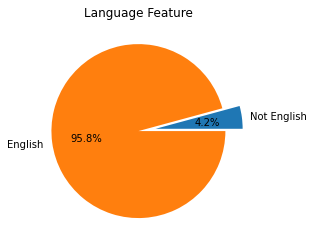
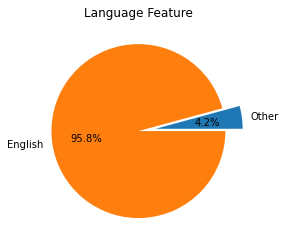
added url feature plots and improved language plots

Changed region(s): [[0.0, 0.17, 0.9825, 0.9069], [0.2526, 0.0283, 0.6737, 0.085], [0.2246, 0.5385, 0.3649, 0.5951]]

diff --git a/plots/plots.py b/plots/plots.py
@@ -140,9 +140,12 @@ plot_pie(feature[2], topicLabels, "'Cheat': Non-Viral Tweets", explode2d)
 # sentiment plots
 feature = get_features(11)
 
-plot_pie(feature[0], ["Negative", "Neutral", "Positive"], "Sentiment Feature", [0.2, 0, 0])
-plot_pie(feature[1], ["Negative", "Neutral", "Positive"], "Sentiment Viral Tweets", [0.2, 0, 0])
-plot_pie(feature[2], ["Negative", "Neutral", "Positive"], "Sentiment Non-Viral Tweets", [0.2, 0, 0])
+plot_pie(feature[0], ["Negative", "Neutral", "Positive"],
+         "Sentiment Feature", [0.2, 0, 0])
+plot_pie(feature[1], ["Negative", "Neutral", "Positive"],
+         "Sentiment Viral Tweets", [0.2, 0, 0])
+plot_pie(feature[2], ["Negative", "Neutral", "Positive"],
+         "Sentiment Non-Viral Tweets", [0.2, 0, 0])
 
 
 # language plots
@@ -166,21 +169,14 @@ count = df["language"].groupby(df["language"] == "en").count()
 plot = count.plot(kind = 'pie', title = "English vs not English Count", figsize = (5,5))
 plot.set_ylabel("Is English")
 
-unique, counts = np.unique(feature[0], return_counts = True)
-plt.pie(counts, labels = ["Not English", "English"], explode = [0.2, 0], autopct = "%.1f%%")
-plt.title("Language Feature")
-plt.show()
-
-unique, counts = np.unique(feature[1], return_counts = True)
-plt.pie(counts, labels = ["Not English", "English"], explode = [0.2, 0], autopct = "%.1f%%")
-plt.title("Language Viral Tweets")
-plt.show()
-
-unique, counts = np.unique(feature[2], return_counts = True)
-plt.pie(counts, labels = ["Not English", "English"], explode = [0.2, 0], autopct = "%.1f%%")
-plt.title("Language Non-Viral Tweets")
-plt.show()
+plot_pie(feature[0], ["Other", "English"], "Language Feature", explode2d)
+plot_pie(feature[1], ["Other", "English"], "Language Viral Tweets", explode2d)
+plot_pie(feature[2], ["Other", "English"], "Language Non-Viral Tweets", explode2d)
 
 
 # url  plots
 feature = get_features(13)
+
+plot_pie(feature[0], ["W/o URL", "With URL"], "URL Feature", explode2d)
+plot_pie(feature[1], ["W/o URL", "With URL"], "URL Viral Tweets", explode2d)
+plot_pie(feature[2], ["W/o URL", "With URL"], "URL Non-Viral Tweets", explode2d)
